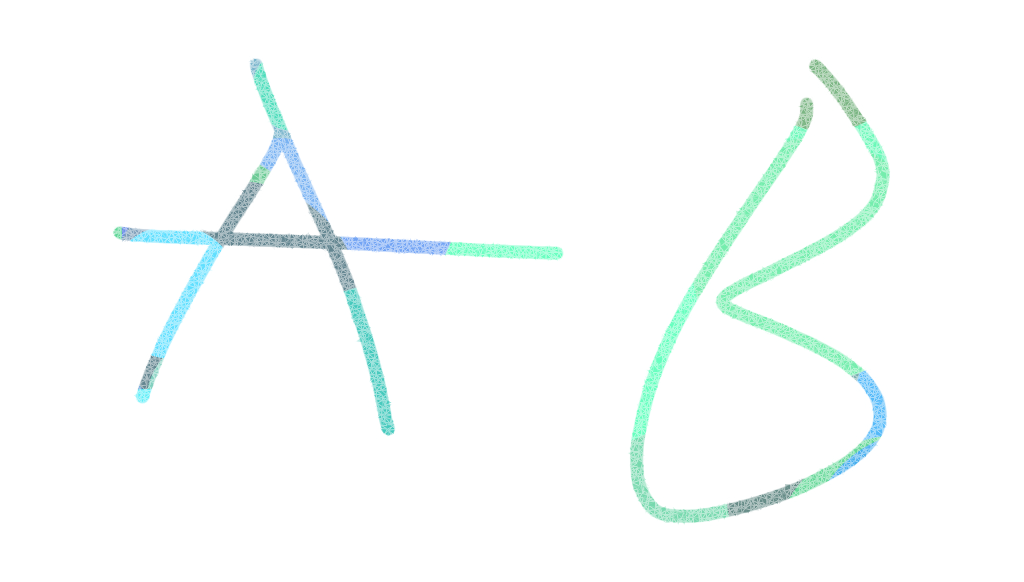
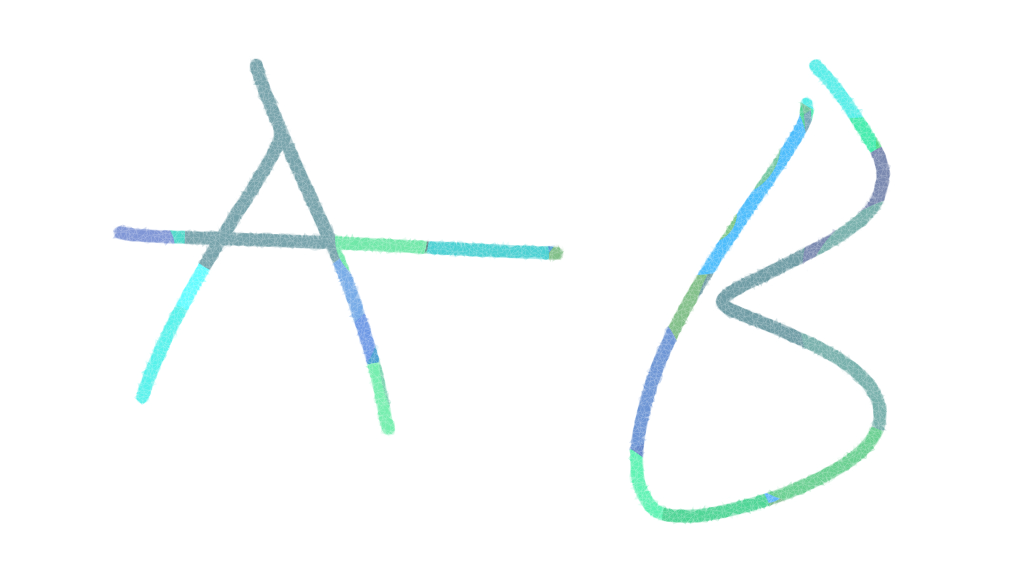
+Final

diff --git a/RandomTextColor.cpp b/RandomTextColor.cpp
@@ -114,7 +114,7 @@ inline QImage toRandomTriangle(const QImage & arg) {
         auto varDrawColor = QColor(varColor, varColor, varColor);
 
         varPainter.setBrush(varDrawColor);
-        varPainter.setPen(QPen(varDrawColor.darker(1) ,1));
+        varPainter.setPen(QPen(varDrawColor.darker(1) ,0.25));
 
         assert(varI.size() == 3);
         varPainter.drawPolygon(varI.data(), 3);
